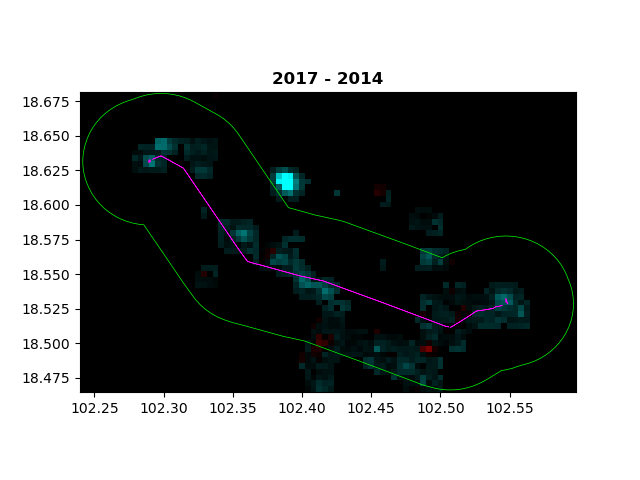
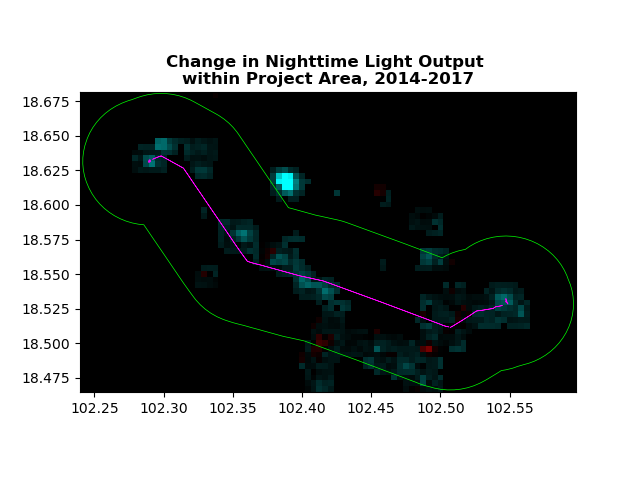
Update example image titles

Changed region(s): [[0.25, 0.0938, 0.75, 0.1875]]

diff --git a/examples/ntl_demo/ntl_demo.py b/examples/ntl_demo/ntl_demo.py
@@ -189,7 +189,7 @@ cmap = clr.LinearSegmentedColormap.from_list('custom', ['#ff0000','#000000','#00
 
 
 fig, ax = plt.subplots(1)
-show(diff_2020_2017, transform=viirs2020_transform, cmap=cmap, vmin=-2, vmax=2, title="2020 - 2017", ax=ax)
+show(diff_2020_2017, transform=viirs2020_transform, cmap=cmap, vmin=-2, vmax=2, title="Change in Nighttime Light Output \nwithin Project Area, 2017-2020", ax=ax)
 vector_gdf.plot(ax=ax, color="fuchsia", edgecolor="fuchsia", linewidth=0.5)
 buffer_combined_gs.plot(ax=ax, color="none", edgecolor="lime", linewidth=0.5)
 # plt.show()
@@ -197,7 +197,7 @@ plt.savefig(output_dir / "2020_2017_diff.png")
 
 
 fig, ax = plt.subplots(1)
-show(diff_2017_2014, transform=viirs2020_transform, cmap=cmap, vmin=-2, vmax=2, title="2017 - 2014", ax=ax)
+show(diff_2017_2014, transform=viirs2020_transform, cmap=cmap, vmin=-2, vmax=2, title="Change in Nighttime Light Output \nwithin Project Area, 2014-2017", ax=ax)
 vector_gdf.plot(ax=ax, color="fuchsia", edgecolor="fuchsia", linewidth=0.5)
 buffer_combined_gs.plot(ax=ax, color="none", edgecolor="lime", linewidth=0.5)
 # plt.show()
